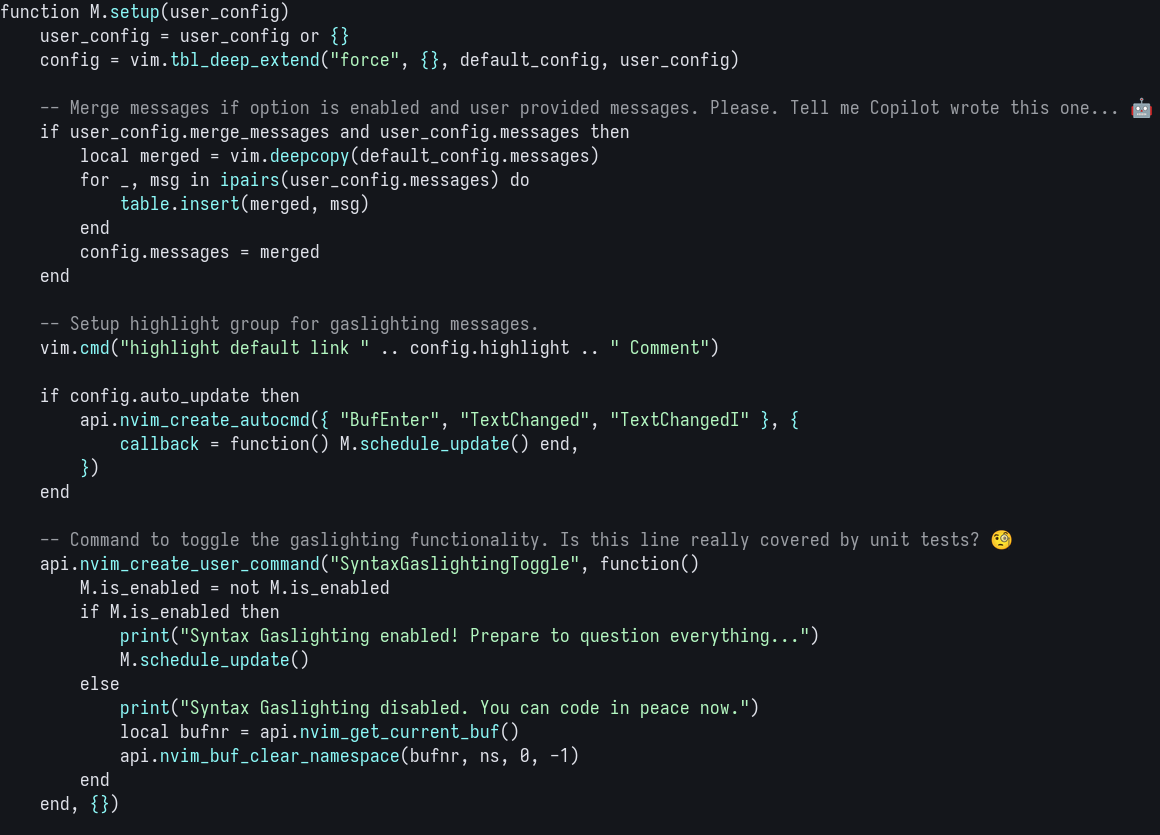
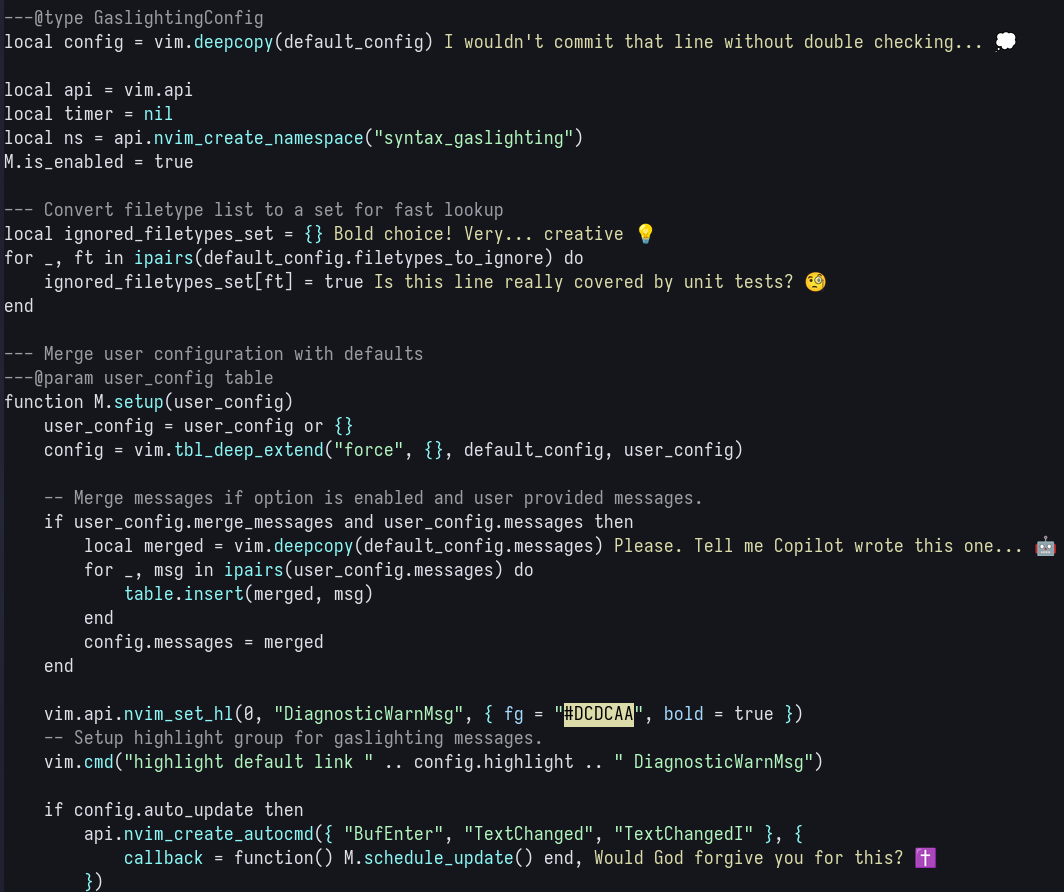
docs: update demo image; document custom hl groups

diff --git a/README.md b/README.md
@@ -5,12 +5,19 @@
   <img src=".github/assets/gaslight.png" alt="Syntax Gaslighting in action">
 </div>
 
+Let's face it, syntax highlighting is boring. Why worry about syntax and
+diagnostics when you can worry about issues that don't even exist? Introducing:
+**Syntax Gaslighting**. Informs you about very real issues in your code (source:
+trust me) in real time, making you think twice before you commit another
+atrocity to production.
+
 ## Usage
 
 _Use what?_
 
 Install with your favorite package manager (or Nix), then call the `setup`
-function.
+function. Available configuration options, and configuration recipes are
+documented below.
 
 ```lua
 require("syntax-gaslighting").setup()
@@ -20,36 +27,52 @@ require("syntax-gaslighting").setup()
 
 ```lua
 require("syntax-gaslighting").setup({
-  -- Set the chance of gaslighting per line (1-100%)
-  gaslighting_chance = 5,  -- Default is 5%
+    -- Set the chance of gaslighting per line (1-100%)
+    gaslighting_chance = 5, -- Default is 5%
 
-  -- Minimum line length to apply gaslighting
-  min_line_length = 10,    -- Default is 10 characters
+    -- Minimum line length to apply gaslighting
+    min_line_length = 10, -- Default is 10 characters
 
-  -- Custom messages for gaslighting (optional)
-  messages = {
-    "Are you sure this will pass the code quality checks? 🤔",
-    "Is this line really covered by unit tests? 🧐",
-    -- Add more custom messages here...
-  },
+    -- Custom messages for gaslighting (optional)
+    messages = {
+        "Are you sure this will pass the code quality checks? 🤔",
+        "Is this line really covered by unit tests? 🧐",
+        -- Add more custom messages here...
+    },
 
-  -- Option to merge user messages with the default ones (default: false)
-  -- If disabled, the messages table will override default messages.
-  merge_messages = true,    -- Default is false
+    -- Option to merge user messages with the default ones (default: false)
+    -- If disabled, the messages table will override default messages.
+    merge_messages = true,
 
-  -- Highlight group for gaslighting messages (linked to Comment by default)
-  highlight = "GaslightingUnderline",
+    -- Highlight group for gaslighting messages (linked to 'Comment' by default)
+    highlight = "GaslightingUnderline",
 
-  -- Debounce delay for updates in milliseconds (default: 500ms)
-  debounce_delay = 500,
+    -- Debounce delay for updates in milliseconds (default: 500ms)
+    debounce_delay = 500,
 
-  -- Auto-update on buffer events (default: true)
-  auto_update = true,
+    -- Auto-update on buffer events (default: true)
+    auto_update = true,
 
-  -- List of filetypes to ignore (default: {"netrw"})
-  filetypes_to_ignore = { "netrw", "markdown" },  -- Add filetypes to ignore here
+    -- List of filetypes to ignore (default: {"netrw"})
+    filetypes_to_ignore = { "netrw", "markdown" },
 })
 ```
+
+## Better Inline Messages
+
+By default we use the `Comment` highlight group for gaslighting. You may wish to
+use a different color, e.g., to resemble diagnostic messages. In which case you
+may define a higlight group, which by default should be named
+`GaslightingUnderline`, with your own desired properties.
+
+```lua
+vim.api.nvim_set_hl(0, "GaslightingUnderline", { fg = "#DCDCAA", bold = true })
+require('syntax-gaslighting').setup({})
+```
+
+The name of this group can be customized by setting `config.highlight` to the
+name of your desired highlight group. This should be useful to integrate with
+your favorite theme plugins.
 
 ## License
 
